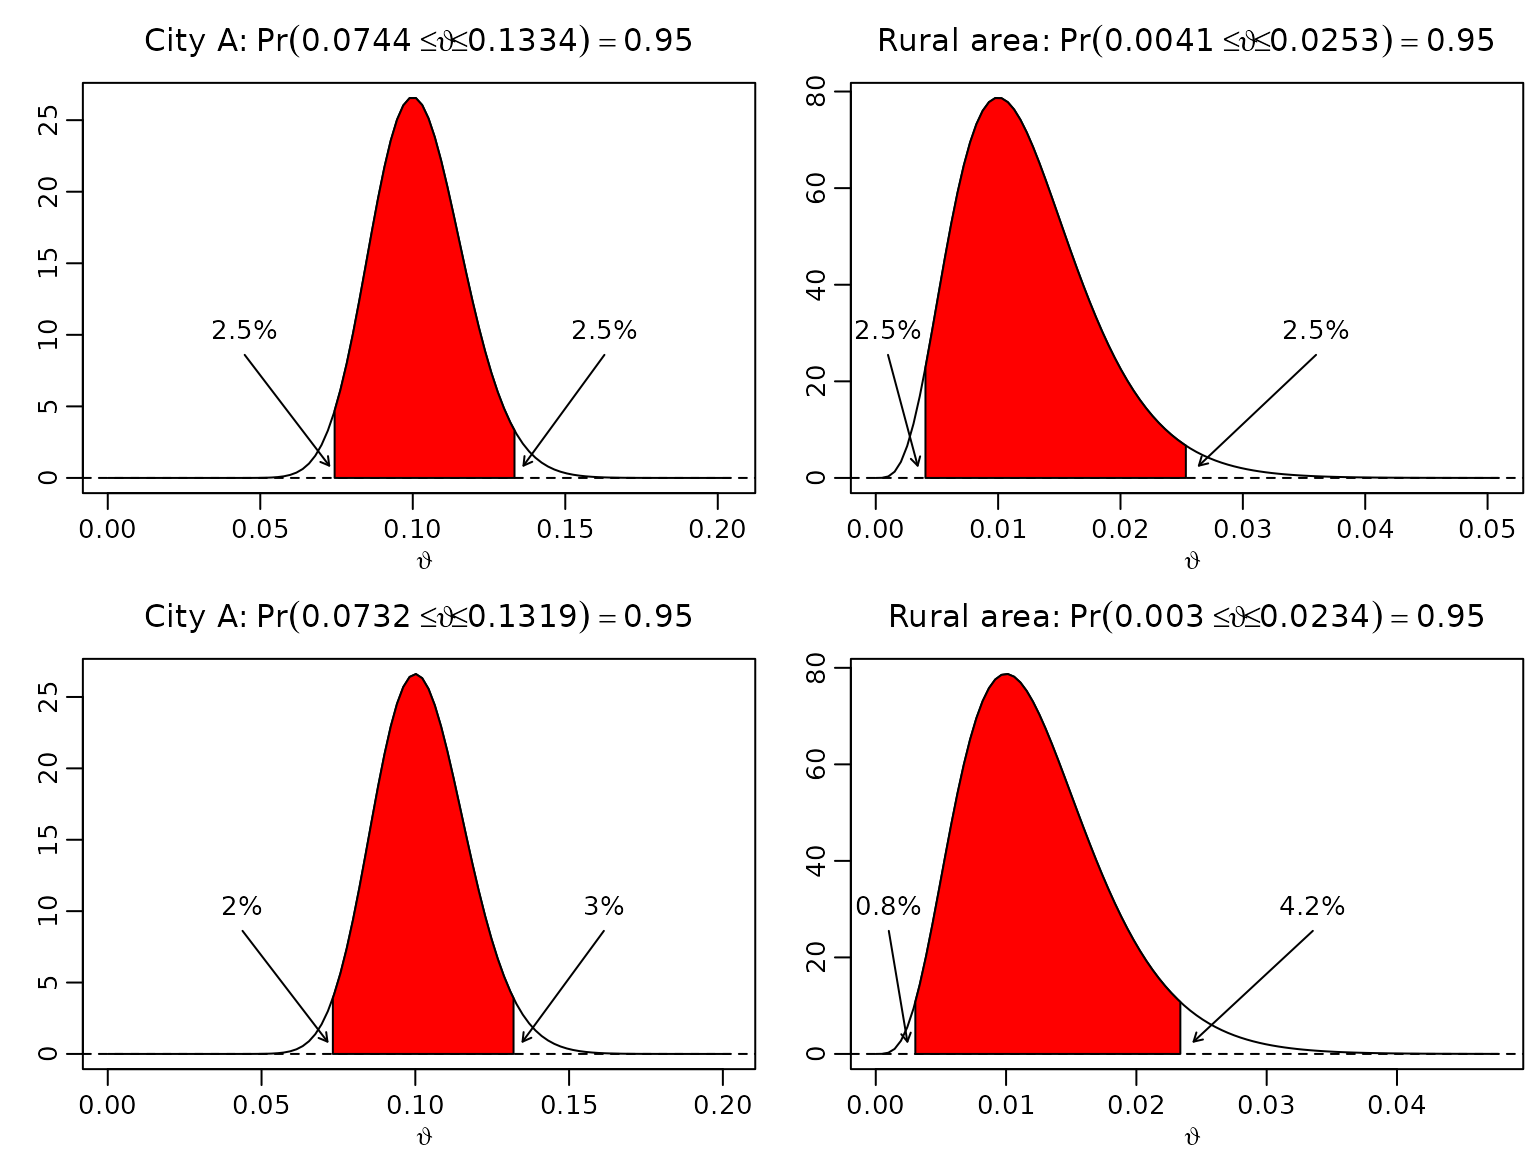
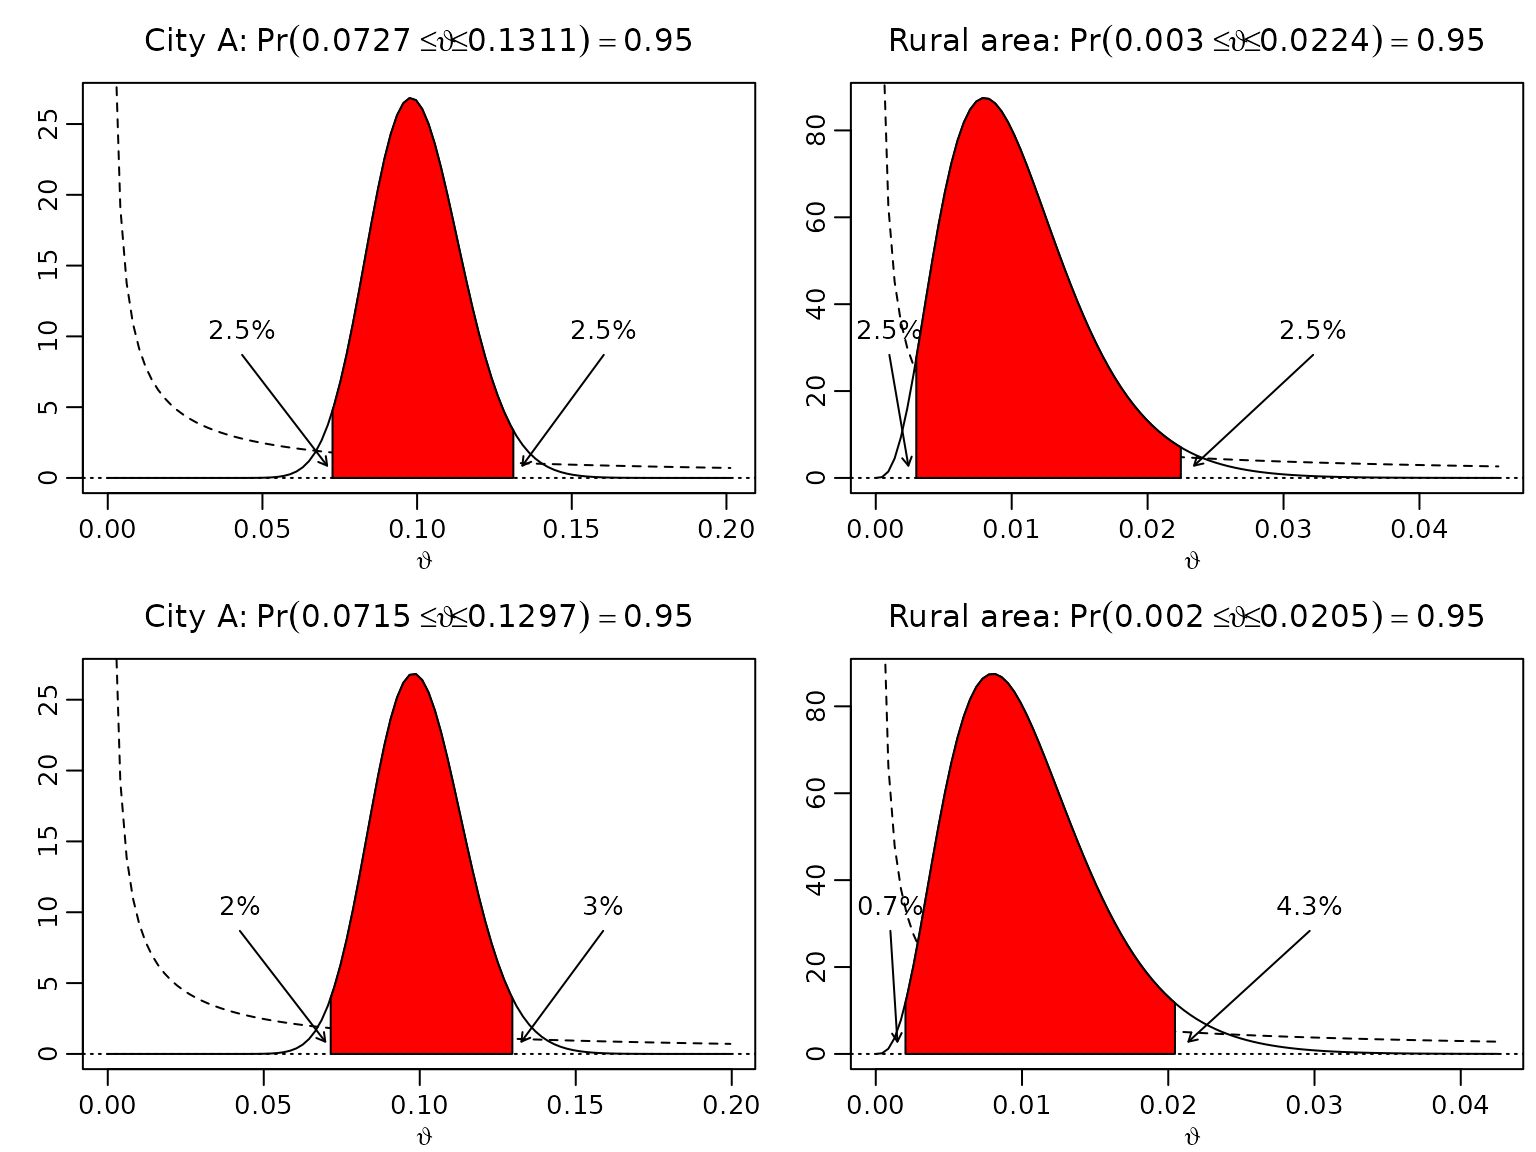
Deploying to gh-pages from @ gregorkastner/BayesianLearningCode@8187d7192f5e9d351a9fd24f871534faedbfdb50 🚀

diff --git a/articles/Chapter03.html b/articles/Chapter03.html
@@ -102,11 +102,14 @@ prior, we now compute equal-tails intervals and highest posterior
 density (HPD) intervals. Note that R is (generally) vectorized, so we
 can compute the equal-tails intervals without using a loop.</p>
 <div class="sourceCode" id="cb2"><pre class="downlit sourceCode r">
-<code class="sourceCode R"><span><span class="va">a</span> <span class="op">&lt;-</span> <span class="fl">1</span></span>
-<span><span class="va">b</span> <span class="op">&lt;-</span> <span class="fl">1</span></span>
-<span><span class="va">aN</span> <span class="op">&lt;-</span> <span class="fu"><a href="https://rdrr.io/r/base/c.html" class="external-link">c</a></span><span class="op">(</span><span class="fl">40</span> <span class="op">+</span> <span class="va">a</span>, <span class="fl">4</span> <span class="op">+</span> <span class="va">b</span><span class="op">)</span></span>
-<span><span class="va">bN</span> <span class="op">&lt;-</span> <span class="fu"><a href="https://rdrr.io/r/base/c.html" class="external-link">c</a></span><span class="op">(</span><span class="fl">400</span> <span class="op">-</span> <span class="fl">40</span> <span class="op">+</span> <span class="va">a</span>, <span class="fl">400</span> <span class="op">-</span> <span class="fl">4</span> <span class="op">+</span> <span class="va">b</span><span class="op">)</span></span>
-<span><span class="fu"><a href="https://rdrr.io/r/base/names.html" class="external-link">names</a></span><span class="op">(</span><span class="va">aN</span><span class="op">)</span> <span class="op">&lt;-</span> <span class="fu"><a href="https://rdrr.io/r/base/names.html" class="external-link">names</a></span><span class="op">(</span><span class="va">bN</span><span class="op">)</span> <span class="op">&lt;-</span> <span class="fu"><a href="https://rdrr.io/r/base/c.html" class="external-link">c</a></span><span class="op">(</span><span class="st">"City A"</span>, <span class="st">"Rural area"</span><span class="op">)</span></span>
+<code class="sourceCode R"><span><span class="va">m0</span> <span class="op">&lt;-</span> <span class="fl">0.1</span></span>
+<span><span class="va">N0</span> <span class="op">&lt;-</span> <span class="fl">2</span></span>
+<span><span class="va">a</span> <span class="op">&lt;-</span> <span class="va">N0</span> <span class="op">*</span> <span class="va">m0</span></span>
+<span><span class="va">b</span> <span class="op">&lt;-</span> <span class="va">N0</span> <span class="op">*</span> <span class="op">(</span><span class="fl">1</span> <span class="op">-</span> <span class="va">m0</span><span class="op">)</span></span>
+<span><span class="va">N</span> <span class="op">&lt;-</span> <span class="fl">400</span></span>
+<span><span class="va">SN</span> <span class="op">&lt;-</span> <span class="fu"><a href="https://rdrr.io/r/base/c.html" class="external-link">c</a></span><span class="op">(</span><span class="st">"City A"</span> <span class="op">=</span> <span class="fl">40</span>, <span class="st">"Rural area"</span> <span class="op">=</span> <span class="fl">4</span><span class="op">)</span></span>
+<span><span class="va">aN</span> <span class="op">&lt;-</span> <span class="va">SN</span> <span class="op">+</span> <span class="va">a</span></span>
+<span><span class="va">bN</span> <span class="op">&lt;-</span> <span class="va">N</span> <span class="op">-</span> <span class="va">SN</span> <span class="op">+</span> <span class="va">b</span></span>
 <span></span>
 <span><span class="va">gamma</span> <span class="op">&lt;-</span> <span class="fl">.95</span></span>
 <span><span class="va">alpha</span> <span class="op">&lt;-</span> <span class="fl">1</span> <span class="op">-</span> <span class="va">gamma</span></span>
@@ -141,7 +144,8 @@ can compute the equal-tails intervals without using a loop.</p>
 <span>         xlab <span class="op">=</span> <span class="fu"><a href="https://rdrr.io/r/base/expression.html" class="external-link">expression</a></span><span class="op">(</span><span class="va">vartheta</span><span class="op">)</span>, ylab <span class="op">=</span> <span class="st">""</span>,</span>
 <span>         main <span class="op">=</span> <span class="fu"><a href="https://rdrr.io/r/base/bquote.html" class="external-link">bquote</a></span><span class="op">(</span><span class="fu">.</span><span class="op">(</span><span class="fu"><a href="https://rdrr.io/r/base/names.html" class="external-link">names</a></span><span class="op">(</span><span class="va">aN</span><span class="op">[</span><span class="va">i</span><span class="op">]</span><span class="op">)</span><span class="op">)</span> <span class="op">*</span> <span class="st">":"</span> <span class="op">~</span> <span class="fu">Pr</span><span class="op">(</span><span class="fu">.</span><span class="op">(</span><span class="fu"><a href="https://rdrr.io/r/base/Round.html" class="external-link">round</a></span><span class="op">(</span><span class="va">left</span><span class="op">[</span><span class="va">i</span>,<span class="va">j</span><span class="op">]</span>, <span class="fl">4</span><span class="op">)</span><span class="op">)</span> <span class="op">&lt;=</span></span>
 <span>                       <span class="op">{</span><span class="va">vartheta</span> <span class="op">&lt;=</span> <span class="fu">.</span><span class="op">(</span><span class="fu"><a href="https://rdrr.io/r/base/Round.html" class="external-link">round</a></span><span class="op">(</span><span class="va">right</span><span class="op">[</span><span class="va">i</span>,<span class="va">j</span><span class="op">]</span>, <span class="fl">4</span><span class="op">)</span><span class="op">)</span><span class="op">}</span><span class="op">)</span> <span class="op">==</span> <span class="fu">.</span><span class="op">(</span><span class="va">gamma</span><span class="op">)</span><span class="op">)</span><span class="op">)</span></span>
-<span>    <span class="fu"><a href="https://rdrr.io/r/graphics/abline.html" class="external-link">abline</a></span><span class="op">(</span>h <span class="op">=</span> <span class="fl">0</span>, lty <span class="op">=</span> <span class="fl">2</span><span class="op">)</span></span>
+<span>    <span class="fu"><a href="https://rdrr.io/r/graphics/lines.html" class="external-link">lines</a></span><span class="op">(</span><span class="va">theta</span>, <span class="fu"><a href="https://rdrr.io/r/stats/Beta.html" class="external-link">dbeta</a></span><span class="op">(</span><span class="va">theta</span>, <span class="va">a</span>, <span class="va">b</span><span class="op">)</span>, lty <span class="op">=</span> <span class="fl">2</span><span class="op">)</span></span>
+<span>    <span class="fu"><a href="https://rdrr.io/r/graphics/abline.html" class="external-link">abline</a></span><span class="op">(</span>h <span class="op">=</span> <span class="fl">0</span>, lty <span class="op">=</span> <span class="fl">3</span><span class="op">)</span></span>
 <span>  </span>
 <span>    <span class="fu"><a href="https://rdrr.io/r/graphics/polygon.html" class="external-link">polygon</a></span><span class="op">(</span><span class="fu"><a href="https://rdrr.io/r/base/c.html" class="external-link">c</a></span><span class="op">(</span><span class="va">left</span><span class="op">[</span><span class="va">i</span>,<span class="va">j</span><span class="op">]</span>, <span class="va">left</span><span class="op">[</span><span class="va">i</span>,<span class="va">j</span><span class="op">]</span>,</span>
 <span>              <span class="va">theta</span><span class="op">[</span><span class="va">theta</span> <span class="op">&gt;</span> <span class="va">left</span><span class="op">[</span><span class="va">i</span>,<span class="va">j</span><span class="op">]</span> <span class="op">&amp;</span> <span class="va">theta</span> <span class="op">&lt;</span> <span class="va">right</span><span class="op">[</span><span class="va">i</span>,<span class="va">j</span><span class="op">]</span><span class="op">]</span>,</span>
@@ -212,36 +216,18 @@ example.</p>
 </tr></thead>
 <tbody>
 <tr class="odd">
-<td align="right">0.0003</td>
-<td align="right">0.0359</td>
-<td align="right">0.0000</td>
-<td align="right">0.0292</td>
-</tr>
-<tr class="even">
-<td align="right">0.0556</td>
-<td align="right">0.1746</td>
-<td align="right">0.0515</td>
-<td align="right">0.1687</td>
-</tr>
-<tr class="odd">
-<td align="right">0.4036</td>
-<td align="right">0.5964</td>
-<td align="right">0.4036</td>
-<td align="right">0.5964</td>
-</tr>
-<tr class="even">
 <td align="right">0.0001</td>
 <td align="right">0.0092</td>
 <td align="right">0.0000</td>
 <td align="right">0.0074</td>
 </tr>
-<tr class="odd">
+<tr class="even">
 <td align="right">0.0744</td>
 <td align="right">0.1334</td>
 <td align="right">0.0732</td>
 <td align="right">0.1319</td>
 </tr>
-<tr class="even">
+<tr class="odd">
 <td align="right">0.4512</td>
 <td align="right">0.5488</td>
 <td align="right">0.4512</td>
@@ -260,26 +246,14 @@ example.</p>
 </tr></thead>
 <tbody>
 <tr class="odd">
-<td align="right">0.0356</td>
-<td align="right">0.0292</td>
-</tr>
-<tr class="even">
-<td align="right">0.1189</td>
-<td align="right">0.1172</td>
-</tr>
-<tr class="odd">
-<td align="right">0.1927</td>
-<td align="right">0.1927</td>
-</tr>
-<tr class="even">
 <td align="right">0.0091</td>
 <td align="right">0.0074</td>
 </tr>
-<tr class="odd">
+<tr class="even">
 <td align="right">0.0590</td>
 <td align="right">0.0587</td>
 </tr>
-<tr class="even">
+<tr class="odd">
 <td align="right">0.0976</td>
 <td align="right">0.0976</td>
 </tr>
@@ -287,7 +261,7 @@ example.</p>
 </table>
 </div>
 <div class="section level3">
-<h3 id="figure-3-2-one-sided-hypthesis-testing">Figure 3.2: One-sided hypthesis testing<a class="anchor" aria-label="anchor" href="#figure-3-2-one-sided-hypthesis-testing"></a>
+<h3 id="figure-3-3-one-sided-hypthesis-testing">Figure 3.3: One-sided hypthesis testing<a class="anchor" aria-label="anchor" href="#figure-3-3-one-sided-hypthesis-testing"></a>
 </h3>
 <p>We now move forward to assessing visualizing the posterior
 probability of
@@ -310,7 +284,7 @@ and
 <span>       main <span class="op">=</span> <span class="fu"><a href="https://rdrr.io/r/base/bquote.html" class="external-link">bquote</a></span><span class="op">(</span><span class="va">N</span> <span class="op">==</span> <span class="fl">100</span> <span class="op">~</span> <span class="st">"and"</span> <span class="op">~</span> <span class="va">S</span><span class="op">[</span><span class="va">N</span><span class="op">]</span> <span class="op">==</span> <span class="fu">.</span><span class="op">(</span><span class="va">SN</span><span class="op">[</span><span class="va">i</span><span class="op">]</span><span class="op">)</span> <span class="op">~</span> <span class="st">"     "</span> <span class="op">~</span></span>
 <span>                       <span class="fu">P</span><span class="op">(</span><span class="va">vartheta</span> <span class="op">&lt;=</span> <span class="fl">0.05</span> <span class="op">~</span> <span class="st">"|"</span> <span class="op">~</span> <span class="fu">bold</span><span class="op">(</span><span class="va">y</span><span class="op">)</span><span class="op">)</span> <span class="op">~</span> <span class="st">"="</span> <span class="op">~</span></span>
 <span>                       <span class="fu">.</span><span class="op">(</span><span class="fu"><a href="https://rdrr.io/r/base/Round.html" class="external-link">round</a></span><span class="op">(</span><span class="fu"><a href="https://rdrr.io/r/stats/Beta.html" class="external-link">pbeta</a></span><span class="op">(</span><span class="fl">0.05</span>, <span class="va">aN</span><span class="op">[</span><span class="va">i</span><span class="op">]</span>, <span class="va">bN</span><span class="op">[</span><span class="va">i</span><span class="op">]</span><span class="op">)</span>, <span class="fl">3</span><span class="op">)</span><span class="op">)</span><span class="op">)</span><span class="op">)</span></span>
-<span>  <span class="fu"><a href="https://rdrr.io/r/graphics/abline.html" class="external-link">abline</a></span><span class="op">(</span>h <span class="op">=</span> <span class="fl">0</span>, lty <span class="op">=</span> <span class="fl">2</span><span class="op">)</span></span>
+<span>  <span class="fu"><a href="https://rdrr.io/r/graphics/abline.html" class="external-link">abline</a></span><span class="op">(</span>h <span class="op">=</span> <span class="fl">0</span>, lty <span class="op">=</span> <span class="fl">3</span><span class="op">)</span></span>
 <span>  <span class="fu"><a href="https://rdrr.io/r/graphics/polygon.html" class="external-link">polygon</a></span><span class="op">(</span><span class="fu"><a href="https://rdrr.io/r/base/c.html" class="external-link">c</a></span><span class="op">(</span><span class="va">theta</span><span class="op">[</span><span class="va">theta</span> <span class="op">&lt;=</span> <span class="fl">0.05</span><span class="op">]</span>, <span class="fl">0.05</span><span class="op">)</span>,</span>
 <span>          <span class="fu"><a href="https://rdrr.io/r/base/c.html" class="external-link">c</a></span><span class="op">(</span><span class="fu"><a href="https://rdrr.io/r/stats/Beta.html" class="external-link">dbeta</a></span><span class="op">(</span><span class="va">theta</span><span class="op">[</span><span class="va">theta</span> <span class="op">&lt;=</span> <span class="fl">0.05</span><span class="op">]</span>, <span class="va">aN</span><span class="op">[</span><span class="va">i</span><span class="op">]</span>, <span class="va">bN</span><span class="op">[</span><span class="va">i</span><span class="op">]</span><span class="op">)</span>, <span class="fl">0</span><span class="op">)</span>, col <span class="op">=</span> <span class="st">"red"</span><span class="op">)</span></span>
 <span><span class="op">}</span></span></code></pre></div>
